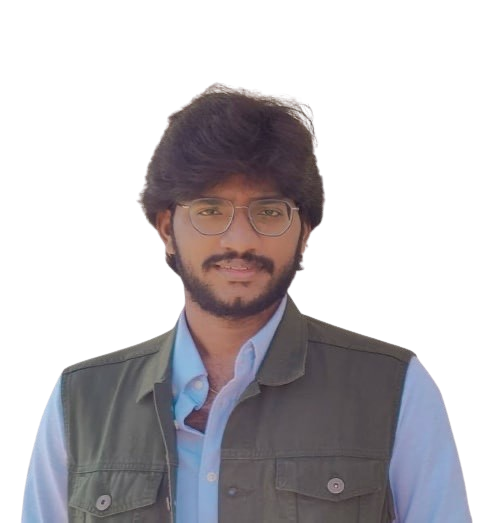
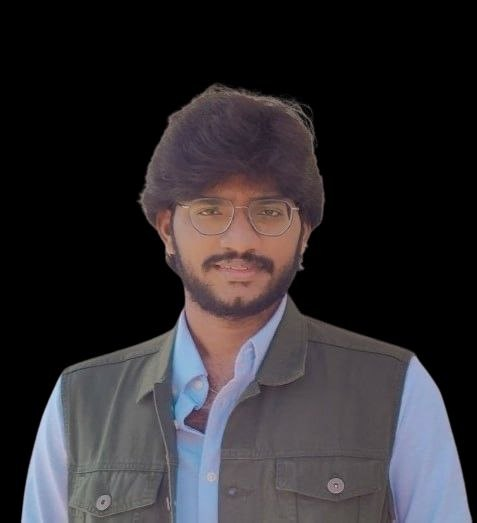
Update About page leadership section and profile images

diff --git a/src/pages/About.jsx b/src/pages/About.jsx
@@ -1,3 +1,4 @@
+
 import React from "react";
 import { motion } from "framer-motion";
 import { Flag, Eye, Linkedin } from "lucide-react";
@@ -67,7 +68,7 @@ const About = () => {
               </p>
             </div>
 
-            <div className="mt-8 grid gap-6 md:grid-cols-2">
+            <div className="mx-auto mt-10 grid max-w-5xl gap-8 md:grid-cols-2">
               <motion.div
                 initial={{ opacity: 0, x: -30 }}
                 whileInView={{ opacity: 1, x: 0 }}
@@ -145,6 +146,7 @@ const About = () => {
     name: "Ravinder Reddy Attapuram",
     role: "Founder & CEO",
     linkedin: "https://www.linkedin.com/in/ravinder-reddy-attapuram-a2676491/",
+    email: "ravinder.reddy@thome.co.in",
     text:
       "Entrepreneur, strategist, and changemaker leading T-Home toward a future where finance is transparent, easy, and empowering.",
   },
@@ -153,72 +155,205 @@ const About = () => {
     name: "K C Pratheek Reddy",
     role: "Co-Founder & CTO",
     linkedin: "https://www.linkedin.com/in/kesara-chenna-pratheek-reddy",
+    email: "pratheek.kesara@thome.co.in",
     text:
       "The tech visionary behind T-Home’s digital transformation, focused on scalable, intelligent, and reliable product experiences.",
   },
 ].map((leader) => (
-                 <motion.div
+                  <motion.div
   key={leader.name}
-  className="group rounded-[20px] border border-[#c9dcff]/18 bg-[linear-gradient(180deg,rgba(30,45,95,0.5)_0%,rgba(20,31,76,0.44)_100%)] p-6 shadow-[inset_0_1px_0_rgba(255,255,255,0.14),0_10px_28px_rgba(0,0,0,0.2)] backdrop-blur-md"
-        
-                  whileHover={{ y: -4 }}
-                >
-                   <div className="relative mx-auto w-fit">
+  whileHover={{ y: -6 }}
+  transition={{ duration: 0.35 }}
+  className="rounded-[18px]
+  border border-[#274786]
+  bg-[linear-gradient(180deg,#162347_0%,#101c39_100%)]
+  px-8
+  py-8
+  text-center
+  shadow-[0_20px_60px_rgba(0,0,0,.35)]
+"
+>
 
-  {/* LinkedIn Button */}
-  <a
-    href={leader.linkedin}
-    target="_blank"
-    rel="noopener noreferrer"
-    className="
-      absolute
-      -top-4
-      right-0
-      h-10
-      w-10
+  {/* IMAGE */}
+
+  <div className="relative mx-auto w-fit">
+
+    <div
+      className="
+      h-40
+      w-40
       rounded-full
-      bg-[#0A66C2]
+      border-[4px]
+      border-[#25b9ff]
+      bg-white
+      p-1
+      shadow-[0_0_35px_rgba(37,185,255,.6)]
+      "
+    >
+      <img
+        src={leader.image}
+        alt={leader.name}
+        className="h-full w-full rounded-full object-cover"
+      />
+    </div>
+
+  </div>
+
+  {/* ICONS */}
+
+  <div className="mt-4 flex justify-center gap-3">
+
+    <a
+      href={leader.linkedin}
+      target="_blank"
+      rel="noopener noreferrer"
+      className="
       flex
+      h-9
+      w-9
       items-center
       justify-center
+      rounded-full
+      bg-[#0A66C2]
       text-white
-      shadow-lg
-      opacity-0
-      scale-75
-      transition-all
-      duration-300
-      group-hover:opacity-100
-      group-hover:scale-100
+      transition
+      hover:scale-110
+      "
+    >
+      <Linkedin size={16}/>
+    </a>
+
+<a
+  href={`mailto:${leader.email}`}
+  className="
+    flex
+    h-9
+    w-9
+    items-center
+    justify-center
+    rounded-full
+    border
+    border-white/20
+    text-white
+    transition
+    hover:scale-110
+  "
+>
+  ✉
+</a>
+
+  </div>
+
+  {/* ROLE */}
+
+  <div
+    className="
+    mx-auto
+    mt-4
+    inline-flex
+    rounded-full
+    bg-[#20356f]
+    px-4
+    py-1
+    text-[11px]
+    font-medium
+    uppercase
+    tracking-wide
+    text-[#b7d5ff]
     "
   >
-    <Linkedin size={18} />
-  </a>
+    {leader.role}
+  </div>
 
-  {/* Profile Image */}
-  <img
-    src={leader.image}
-    alt={leader.name}
-    className="
-      h-20
-      w-20
-      rounded-full
-      object-cover
-      border
-      border-[#89b6ff]/30
-      shadow-[0_0_20px_rgba(70,140,255,.35)]
-    "
-  />
+  {/* NAME */}
 
-</div>
-                  <h3 className="mt-3 text-xl font-semibold text-white">{leader.name}</h3>
-                  <p className="mt-2 text-sm text-[#9fb8e8]">{leader.role}</p>
-                  <p className="mt-2 text-[15px] leading-7 text-[#d7def3]">{leader.text}</p>
-                </motion.div>
+  <h3 className="mt-5 text-[28px] font-semibold text-white">
+
+    {leader.name}
+
+  </h3>
+
+  {/* SUBTITLE */}
+
+  <p className="mt-2 text-sm text-[#bdd1f7]">
+
+    {leader.role.includes("CEO")
+      ? "Entrepreneur • Strategist • Changemaker"
+      : "Tech Visionary • Innovator • Problem Solver"}
+
+  </p>
+
+  {/* DESCRIPTION */}
+
+  <p className="mx-auto mt-4 max-w-sm text-[14px] leading-7 text-[#d2def9]">
+
+    {leader.text}
+
+  </p>
+
+  {/* FEATURE BOXES */}
+
+  <div className="mt-7 grid grid-cols-3 gap-3">
+
+    {leader.role.includes("CEO")
+      ? (
+        <>
+          <div className="rounded-xl border border-[#2e4d86] bg-[#14254a] p-3">
+            <p className="text-lg font-bold text-white">10+</p>
+            <p className="text-[11px] text-[#9bb8ea]">Years Experience</p>
+          </div>
+
+          <div className="rounded-xl border border-[#2e4d86] bg-[#14254a] p-3">
+            <p className="text-lg">🚀</p>
+            <p className="text-[11px] text-[#9bb8ea]">Visionary Leadership</p>
+          </div>
+
+          <div className="rounded-xl border border-[#2e4d86] bg-[#14254a] p-3">
+            <p className="text-lg">❤</p>
+            <p className="text-[11px] text-[#9bb8ea]">Customer First</p>
+          </div>
+        </>
+      )
+      : (
+        <>
+          <div className="rounded-xl border border-[#2e4d86] bg-[#14254a] p-3">
+            <p className="text-lg">&lt;/&gt;</p>
+            <p className="text-[11px] text-[#9bb8ea]">Tech Expert</p>
+          </div>
+
+          <div className="rounded-xl border border-[#2e4d86] bg-[#14254a] p-3">
+            <p className="text-lg">🗄</p>
+            <p className="text-[11px] text-[#9bb8ea]">Scalable Solutions</p>
+          </div>
+
+          <div className="rounded-xl border border-[#2e4d86] bg-[#14254a] p-3">
+            <p className="text-lg">✔</p>
+            <p className="text-[11px] text-[#9bb8ea]">Reliable Products</p>
+          </div>
+        </>
+      )}
+
+  </div>
+
+</motion.div>
               ))}
             </div>
           </div>
-        </section>
+           <div className="mt-10 flex items-center justify-center gap-2 text-sm text-[#9fb8e8]">
 
+    <span>◎</span>
+
+    <span>
+      United by a shared vision to
+      <span className="text-[#36a8ff]"> simplify finance </span>
+      and
+      <span className="text-[#36a8ff]"> empower lives.</span>
+    </span>
+
+  </div>
+
+        </section>
+       
         <section className="relative w-full pt-1 pb-20 text-center">
           <div className="mx-auto max-w-7xl px-6 md:px-12">
             <h2 className="text-3xl font-semibold text-white md:text-4xl">Why Choose T-Home</h2>
